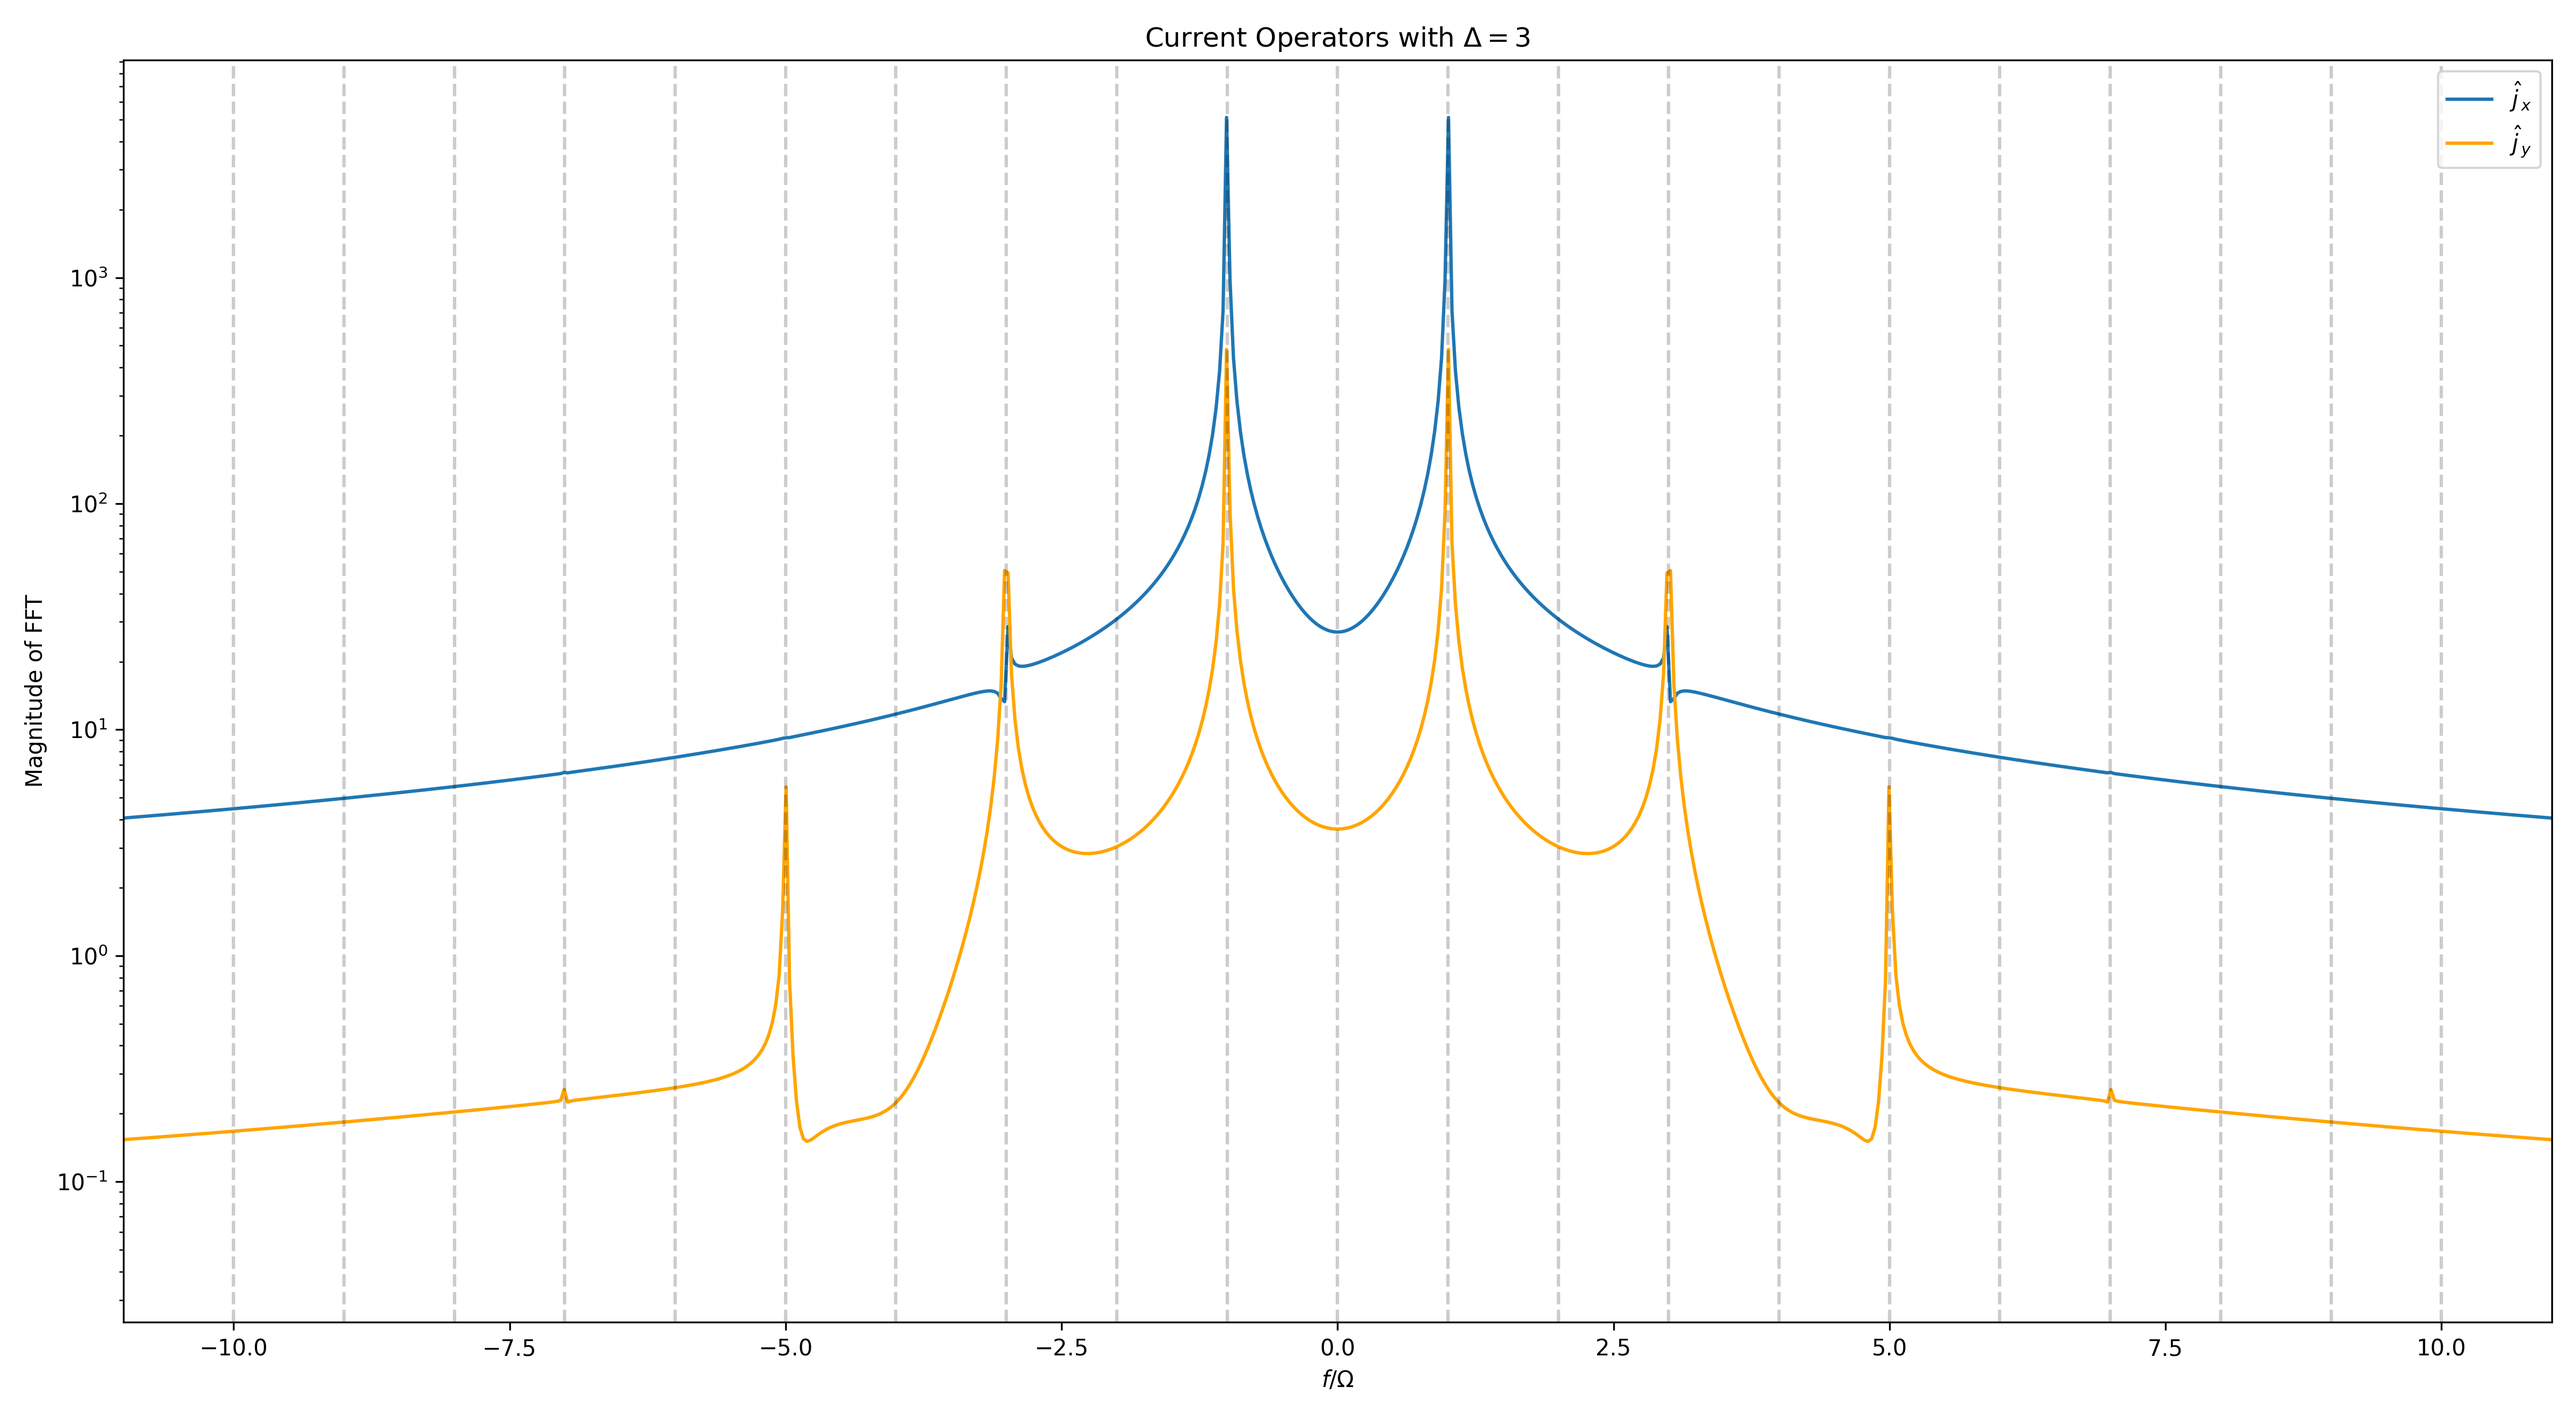
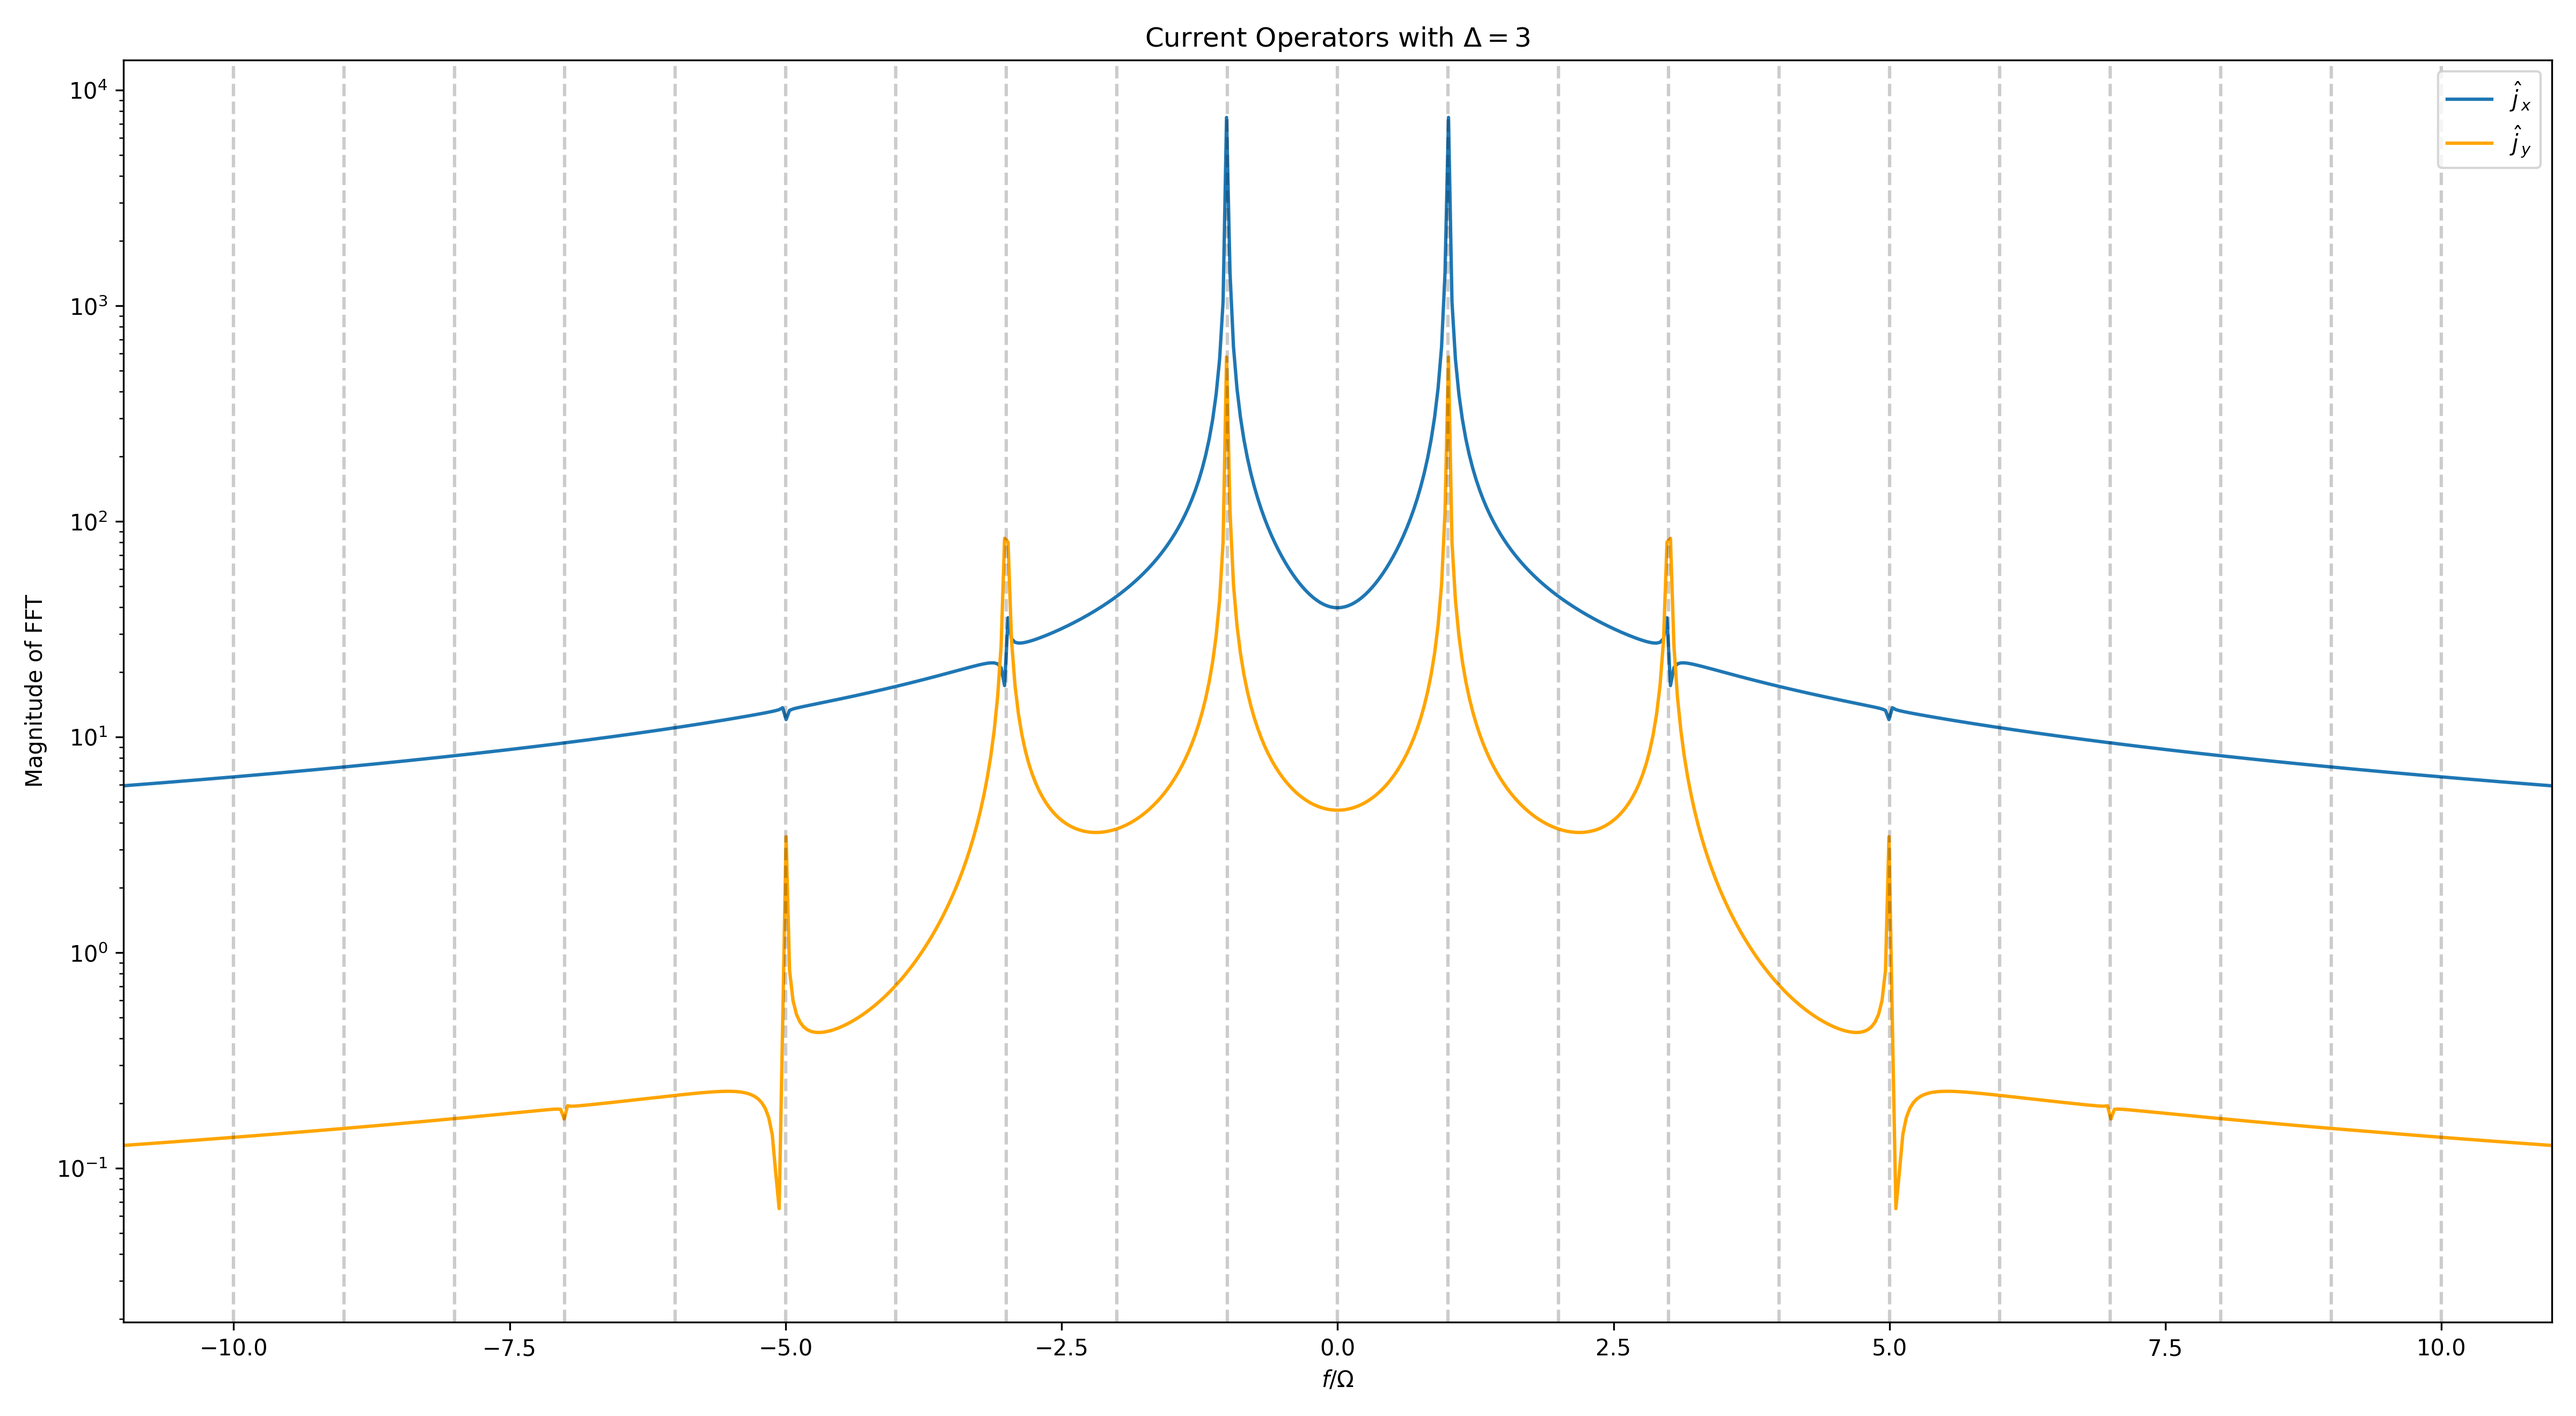
Realised the coeffcients of the paramagnetic current operator in the y-direction are constants, and were already returning a constant complex value, so I just removed the ability to give a time argument and cached the functions to speed things up.

diff --git a/chern_insulator/Hamiltonian.py b/chern_insulator/Hamiltonian.py
@@ -296,23 +296,17 @@ class Hamiltonian:
 
         return (np.cos(self.__params.kx - self.Ax(t)) * hx - np.sin(self.__params.kx - self.Ax(t)) * hz) / energy
     
-    def jym(self, t: float | np.ndarray[float]) -> complex | np.ndarray[complex]:
+    @cache
+    def jym(self) -> complex:
         """
         Returns the coefficient of sigma_- for the current operator in the
-        y-direction, in the band basis, at time t.
-
-        Parameters
-        ----------
-        t : float | ndarray[float]
-            The time, in seconds, at which to evaluate the Hamiltonian.
-            Accepts vectorised inputs.
+        y-direction, in the band basis.
 
         Returns
         -------
-        complex | ndarray[complex]:
+        complex
             The coefficient of sigma_- for the current operator in the
-            y-direction, in the band basis, at time t.
-            The type returned is the same as the type of t.
+            y-direction, in the band basis.
         """
 
         energy = self.energy()
@@ -322,23 +316,17 @@ class Hamiltonian:
         return -1j * np.cos(self.__params.ky) * (hx - 1j * hy * hz / energy) / rho \
             - np.sin(self.__params.ky) * rho / energy
     
-    def jyp(self, t: float | np.ndarray[float]) -> complex | np.ndarray[complex]:
+    @cache
+    def jyp(self) -> complex:
         """
         Returns the coefficient of sigma_+ for the current operator in the
-        y-direction, in the band basis, at time t.
-
-        Parameters
-        ----------
-        t : float | ndarray[float]
-            The time, in seconds, at which to evaluate the Hamiltonian.
-            Accepts vectorised inputs.
+        y-direction, in the band basis.
 
         Returns
         -------
-        complex | ndarray[complex]:
+        complex:
             The coefficient of sigma_+ for the current operator in the
-            y-direction, in the band basis, at time t.
-            The type returned is the same as the type of t.
+            y-direction, in the band basis.
         """
 
         energy = self.energy()
@@ -348,23 +336,17 @@ class Hamiltonian:
         return 1j * np.cos(self.__params.ky) * (hx + 1j * hy * hz / energy) / rho \
             - np.sin(self.__params.ky) * rho / energy
     
-    def jyz(self, t: float | np.ndarray[float]) -> float | np.ndarray[float]:
+    @cache
+    def jyz(self) -> complex:
         """
         Returns the coefficient of sigma_z for the current operator in the
-        y-direction, in the band basis, at time t.
-
-        Parameters
-        ----------
-        t : float | ndarray[float]
-            The time, in seconds, at which to evaluate the Hamiltonian.
-            Accepts vectorised inputs.
+        y-direction, in the band basis.
 
         Returns
         -------
-        float | ndarray[float]:
+        ndarray[complex]:
             The coefficient of sigma_z for the current operator in the
-            y-direction, in the band basis, at time t.
-            The type returned is the same as the type of t.
+            y-direction, in the band basis.
         """
 
         energy = self.energy()

diff --git a/chern_insulator/CurrentSolver.py b/chern_insulator/CurrentSolver.py
@@ -48,9 +48,9 @@ class CurrentSolver:
             + self.__hamiltonian.jxp(time) * sigmap \
             + self.__hamiltonian.jxz(time) * sigmaz
         
-        current[1, :] = self.__hamiltonian.jym(time) * sigmam \
-            + self.__hamiltonian.jyp(time) * sigmap \
-            + self.__hamiltonian.jyz(time) * sigmaz
+        current[1, :] = self.__hamiltonian.jym() * sigmam \
+            + self.__hamiltonian.jyp() * sigmap \
+            + self.__hamiltonian.jyz() * sigmaz
         
         return current
 

diff --git a/chern_insulator/main.py b/chern_insulator/main.py
@@ -10,7 +10,7 @@ numK = 75
 tauMax = 50
 
 params = EnsembleParameters(
-    delta = 1,
+    delta = 3,
     drivingAmp = 0.2,
     decayConstant = 0.2,
     maxN = 50
